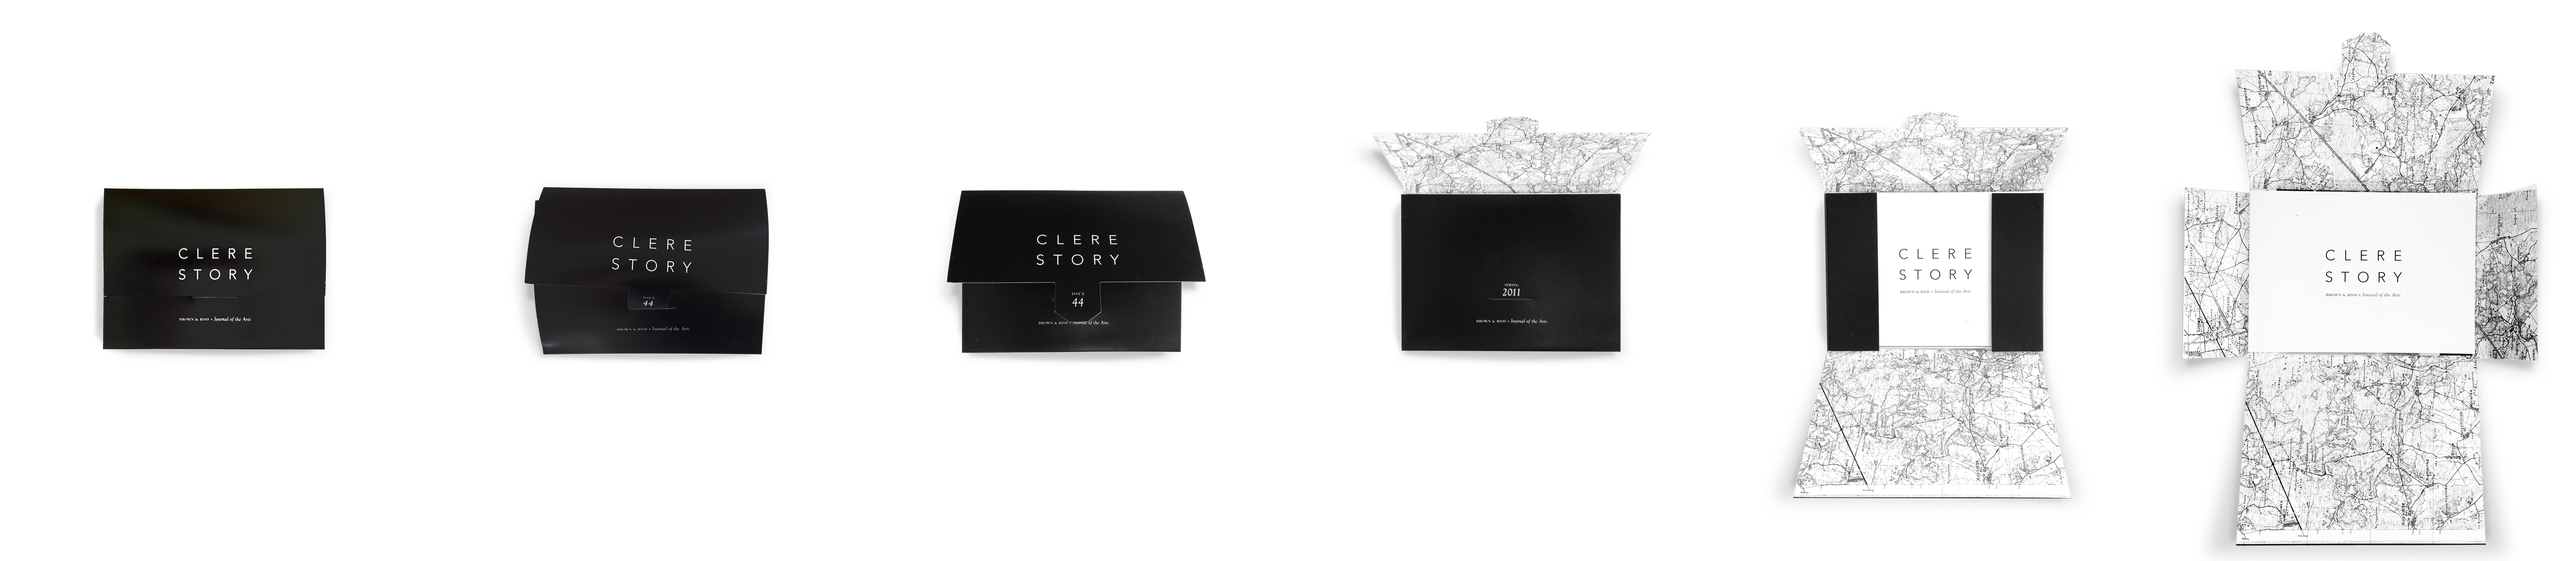
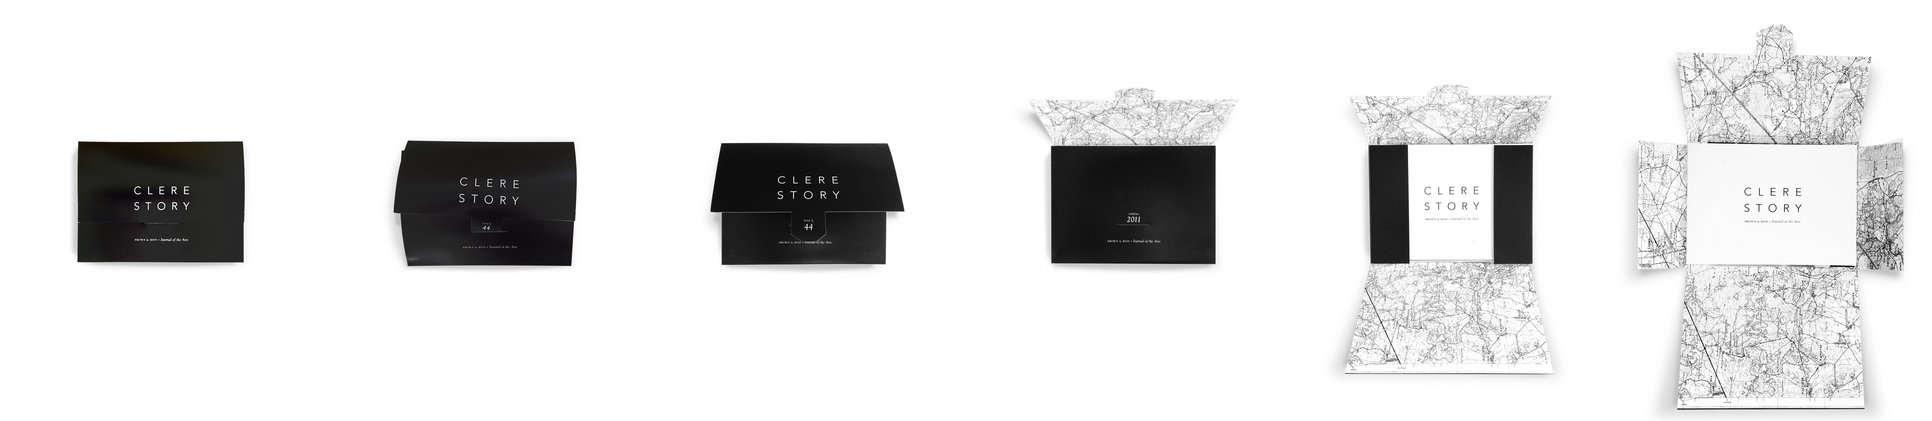
stepwise animation uses img instead of background-img, switch back to png

diff --git a/js.js b/js.js
@@ -300,11 +300,12 @@ function clearTextSelections() {
 // ========
 
 function stepwiseAnim(dir, frames, duration) {
-	timePerFrame = duration / frames;
-	posPerFrame = 100 / (frames-1);
+	var timePerFrame = duration / frames;
+	var posPerFrame = -100; //100 / (frames-1);
+	var endPos = -1 * (frames-1) * 100;
 
 	if (dir == "backward") {
-		pos = 100;
+		pos = endPos;
 		posPerFrame *= -1;
 	}
 	else if (dir == "forward") {
@@ -319,14 +320,14 @@ function stepwiseAnim(dir, frames, duration) {
 	
 	function step() {
 		pos += posPerFrame;
-		$(".box-fold").css("background-position", pos+"% center");
-		if (pos < 100 && pos > 0) {
+		$(".box-fold > .frames").css("left", pos+"%");
+		if (pos > endPos && pos < 0) {
 			window.setTimeout(function() {
 			    step();
 			}, timePerFrame);
 		}
 		else {
-			$(".box-fold").removeAttr("style");
+			$(".box-fold > .frames").removeAttr("style");
 		}
 	}
 }

diff --git a/item/clerestory.html b/item/clerestory.html
@@ -21,23 +21,33 @@ December 2010
 --
 <style>
 .box-fold {
-	height: 700px;
-	background-size: 600%;
-	background-position: 0% center;
-	background-repeat: no-repeat;
-	background-image: url('img/cl-anim.jpg');
+	//height: 700px;
+	//background-size: 600%;
+	//background-position: 0% center;
+	//background-repeat: no-repeat;
+	//background-image: url('img/cl-anim.jpg');
 	//-webkit-transition: all 0.2s;
-	//margin: -250px 0 -350px;
+	margin: -250px 0 -350px;
 }
 
 .box-fold.unfolded {
-	background-position: 100% center;
+	//background-position: 100% center;
 	//-webkit-animation: OPEN 1s;
+}
+
+.box-fold > .frames {
+	width: 600%;
+	left: 0%;
+	position: relative;
+}
+
+.box-fold.unfolded > .frames {
+	left: -500%;
 }
 
 </style>
 <div class="box-fold" onclick="">
-	.
+	<img class="frames" src="img/cl-anim.png" />
 </div>
 
 
